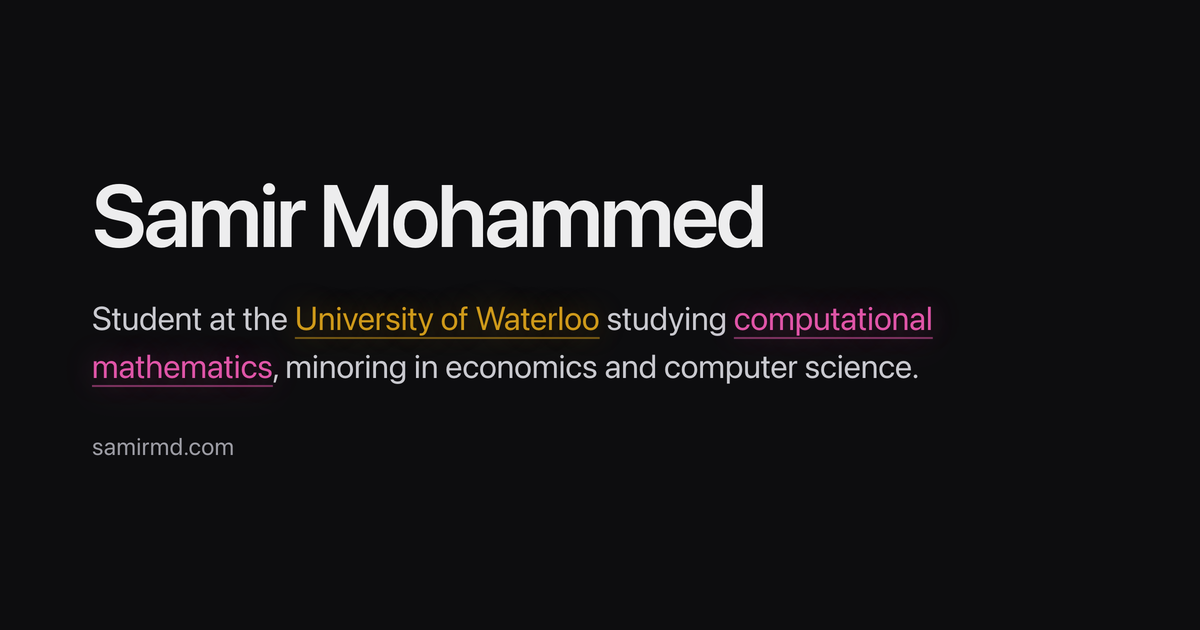
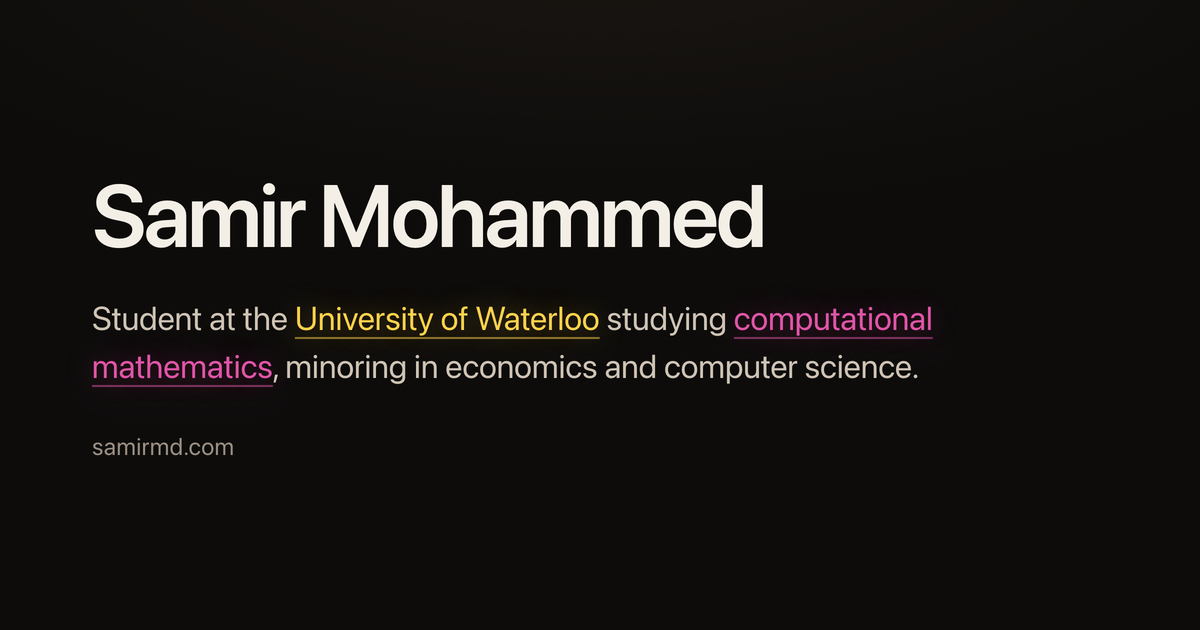
Change background hue and adjust contrast ratios

diff --git a/assets/index.css b/assets/index.css
@@ -5,6 +5,7 @@
   --fg-body: #3a3733;
   --fg-muted: #66625b;
   --line: rgba(26, 25, 23, 0.13);
+  --bg-layer: none;
   --hl-rest: rgba(26, 25, 23, 0.3);
   --hl-pink: #b02a76;
   --hl-pink-line: rgba(176, 42, 118, 0.42);
@@ -30,12 +31,17 @@
 @media (prefers-color-scheme: dark) {
   :root:not([data-theme="light"]) {
     color-scheme: dark;
-    --bg: #0d0d0f;
-    --fg: #ededee;
-    --fg-body: #c9c9cf;
-    --fg-muted: #9c9ca4;
-    --line: rgba(237, 237, 238, 0.14);
-    --hl-rest: rgba(237, 237, 238, 0.28);
+    --bg: #0d0c0b;
+    --bg-layer: radial-gradient(
+      120% 80% at 50% -10%,
+      #1a1612 0%,
+      transparent 55%
+    );
+    --fg: #f4efe6;
+    --fg-body: #cfc4b5;
+    --fg-muted: #9a8f82;
+    --line: rgba(244, 239, 230, 0.13);
+    --hl-rest: rgba(244, 239, 230, 0.26);
     --hl-pink: #e055a8;
     --hl-pink-line: rgba(224, 85, 168, 0.5);
     --hl-pink-glow: rgba(224, 85, 168, 0.34);
@@ -47,11 +53,17 @@
 
 :root[data-theme="dark"] {
   color-scheme: dark;
-  --bg: #0d0d0f;
-  --fg: #ededee;
-  --fg-body: #c9c9cf;
-  --fg-muted: #9c9ca4;
-  --line: rgba(237, 237, 238, 0.14);
+  --bg: #0d0c0b;
+  --bg-layer: radial-gradient(
+    120% 80% at 50% -10%,
+    #1a1612 0%,
+    transparent 55%
+  );
+  --fg: #f4efe6;
+  --fg-body: #cfc4b5;
+  --fg-muted: #9a8f82;
+  --line: rgba(244, 239, 230, 0.13);
+  --hl-rest: rgba(244, 239, 230, 0.26);
   --hl-pink: #e055a8;
   --hl-pink-line: rgba(224, 85, 168, 0.5);
   --hl-pink-glow: rgba(224, 85, 168, 0.34);
@@ -67,6 +79,7 @@
   --fg-body: #3a3733;
   --fg-muted: #66625b;
   --line: rgba(26, 25, 23, 0.13);
+  --bg-layer: none;
   --hl-rest: rgba(26, 25, 23, 0.3);
   --hl-pink: #b02a76;
   --hl-pink-line: rgba(176, 42, 118, 0.42);
@@ -100,7 +113,7 @@ html {
 body {
   margin: 0;
   min-height: 100vh;
-  background: var(--bg);
+  background: var(--bg-layer), var(--bg);
   color: var(--fg);
   font-family: var(--font);
   font-size: 1rem;

diff --git a/assets/index.js b/assets/index.js
@@ -48,7 +48,7 @@
   if (!button) return;
 
   var KEY = "samirmd-theme";
-  var COLORS = { light: "#f7f4ed", dark: "#0d0d0f" };
+  var COLORS = { light: "#f7f4ed", dark: "#0d0c0b" };
   var media = window.matchMedia("(prefers-color-scheme: dark)");
   var meta = document.querySelector('meta[name="theme-color"]');
 
